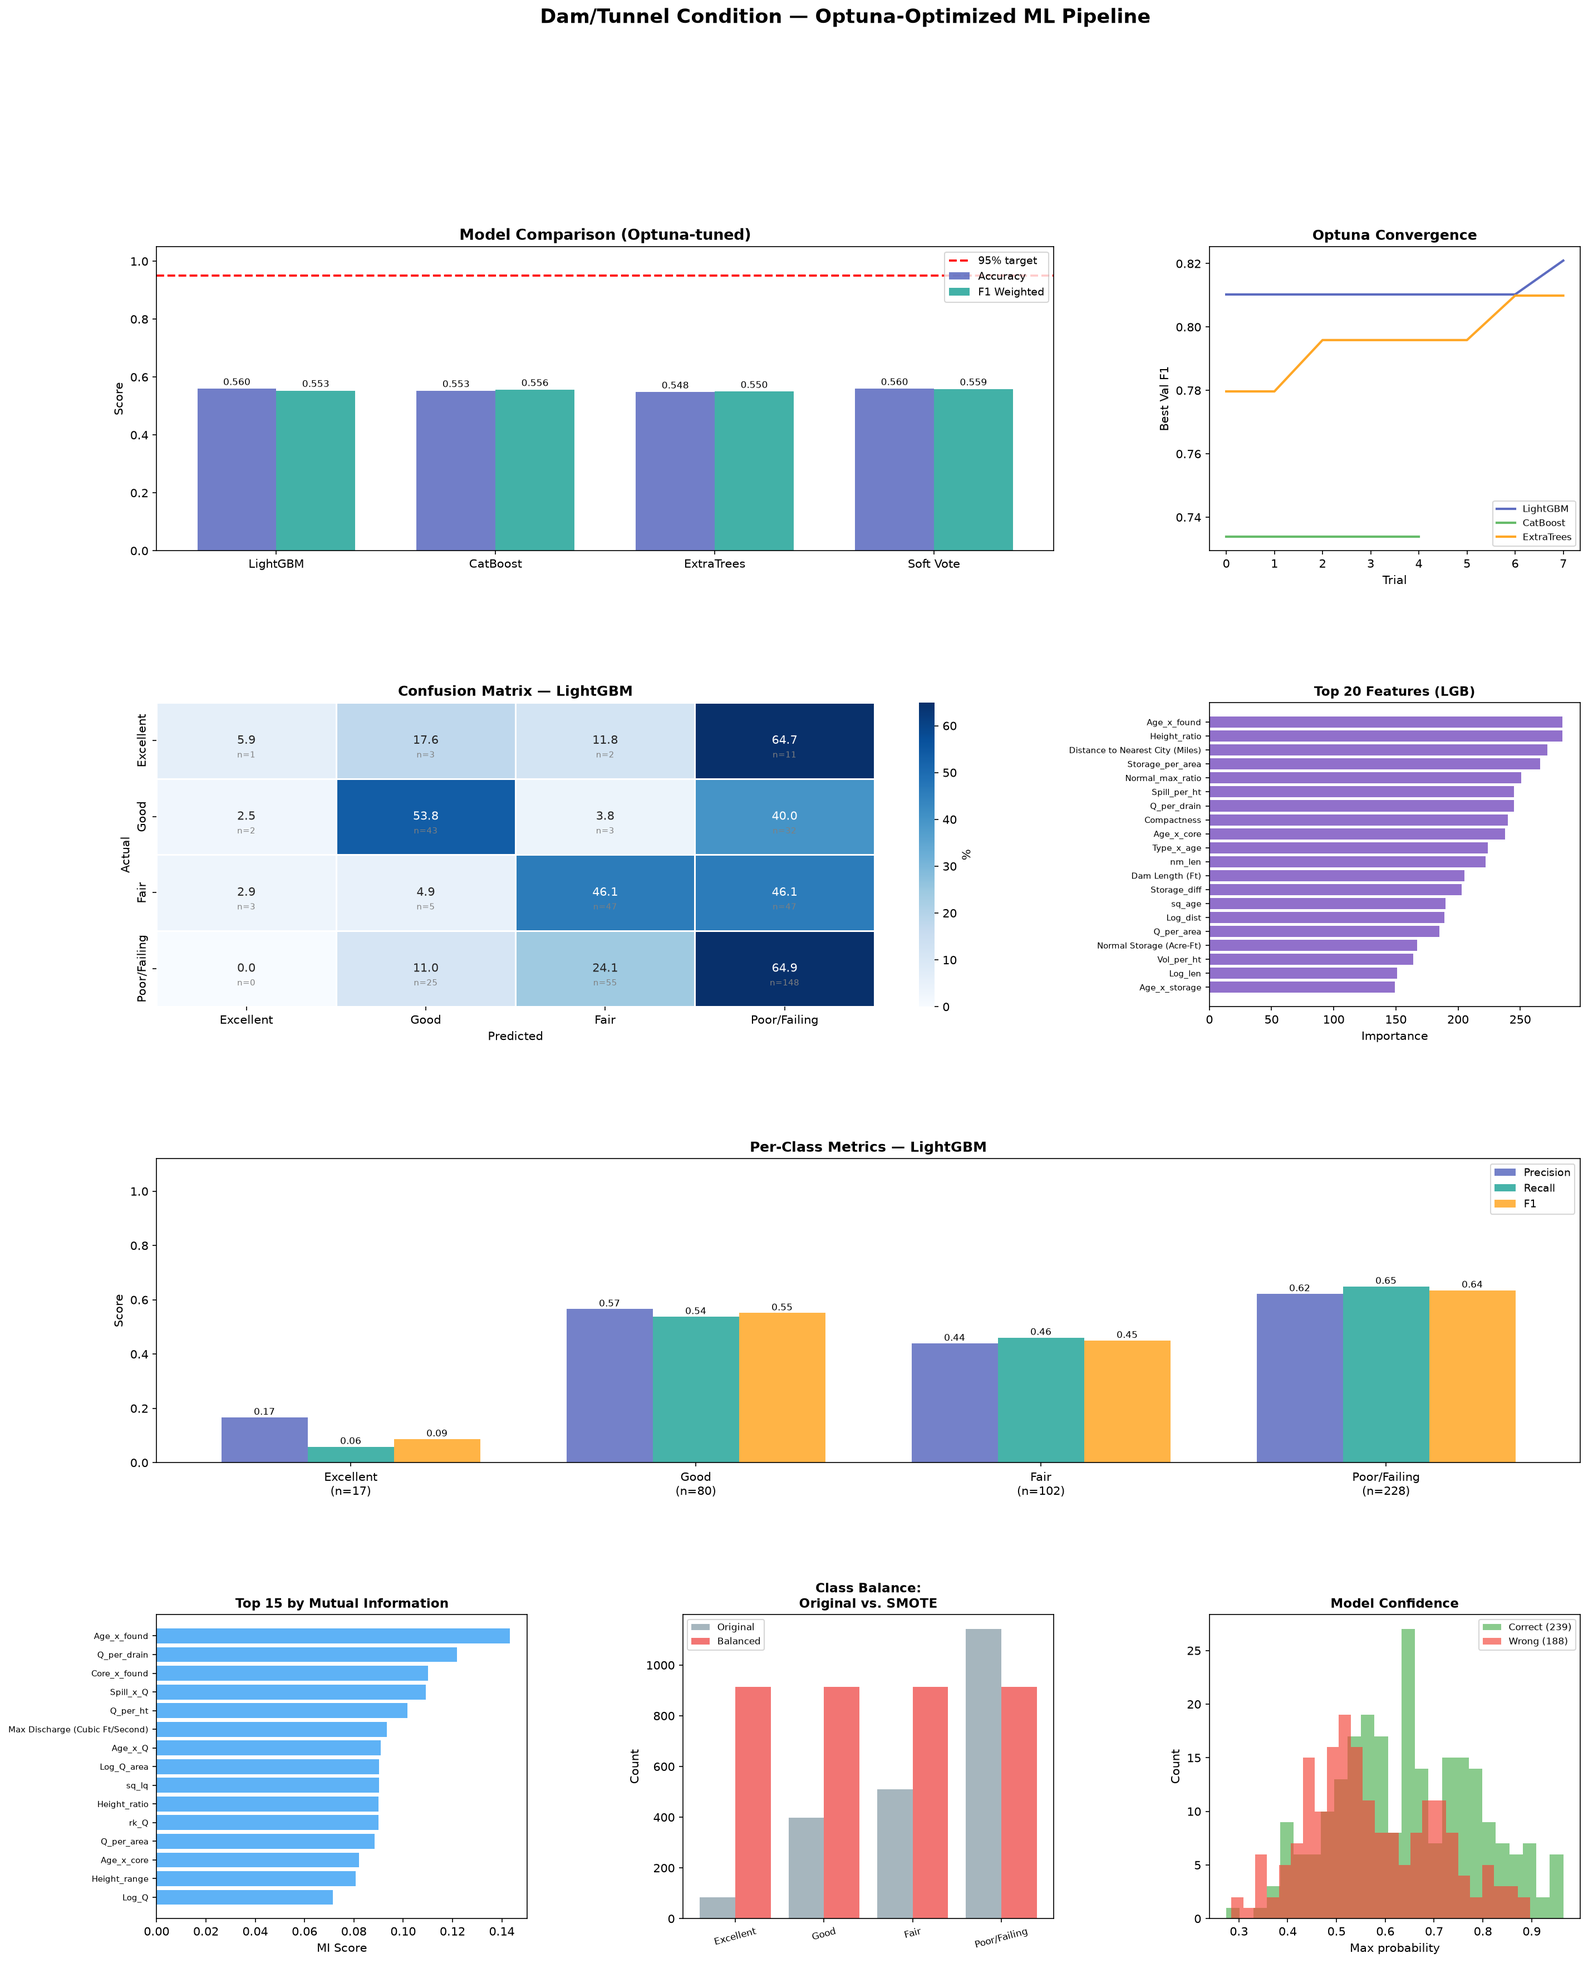
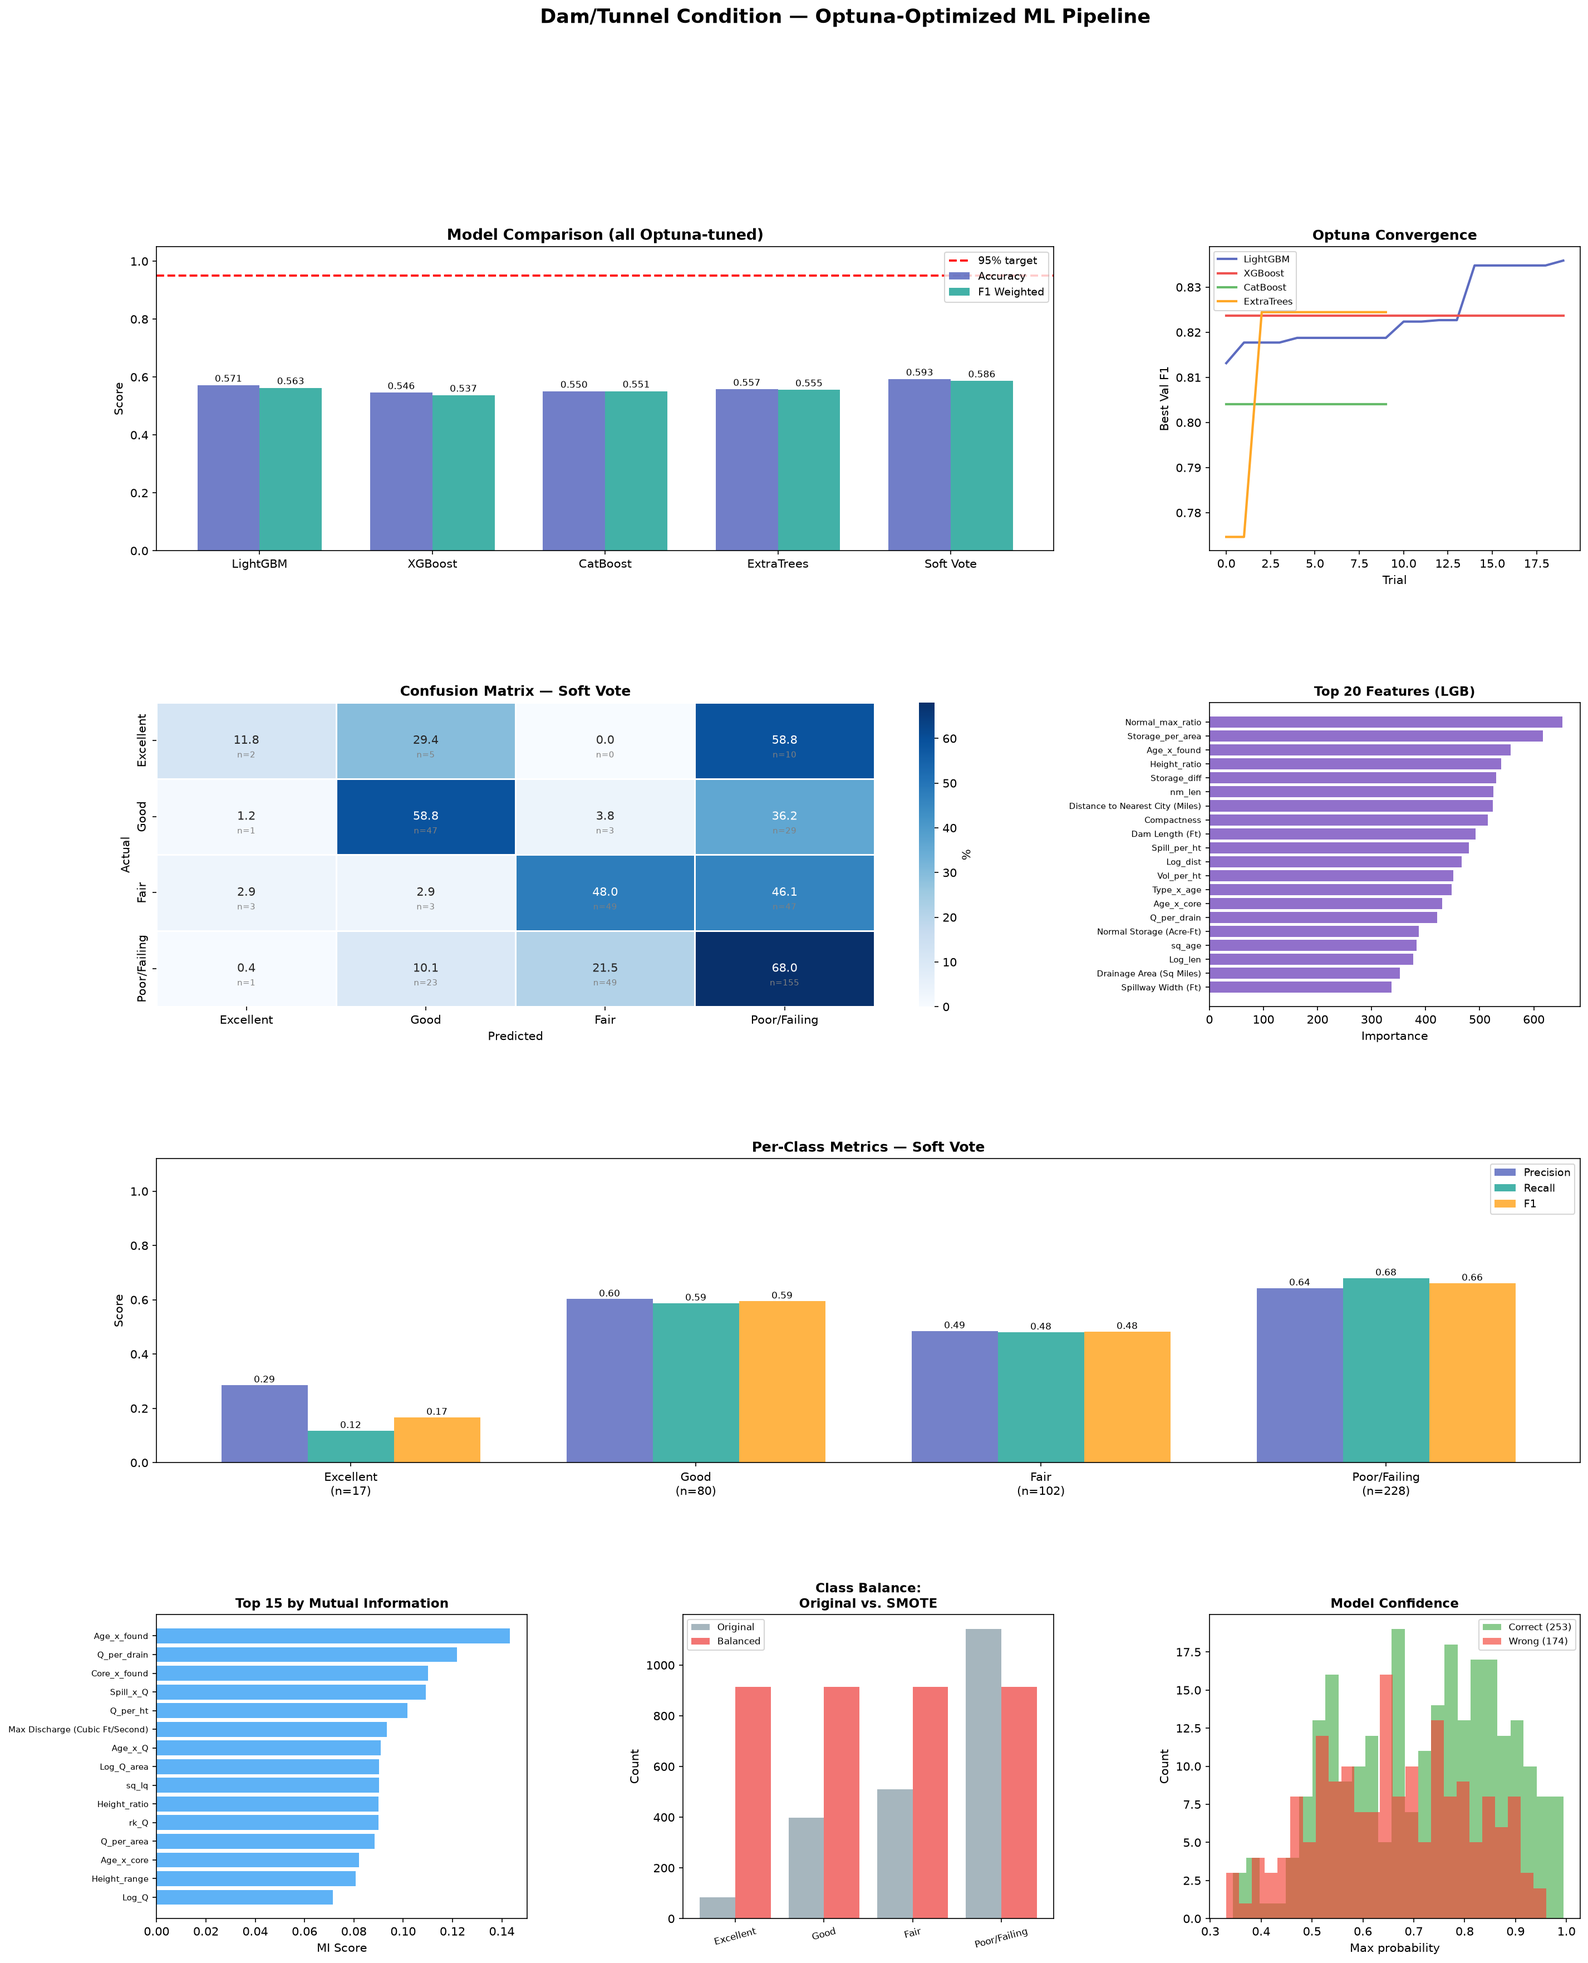
Update optimized pipeline to 4-model ensemble; best accuracy 59.25%
- Switch from 3-model to LGB+XGB+CatBoost+ExtraTrees soft-vote ensemble
- Soft Vote achieves 59.25% accuracy / 58.6% weighted F1 on held-out test
- LightGBM 57.1%, ExtraTrees 55.7%, CatBoost 55.0%, XGBoost 54.6%
- 20 LGB + 20 XGB + 10 CB + 10 ET Optuna trials on SMOTE-balanced data
- Updated tunnel_optimized_report.png with full 4-model comparison
- 95% gap remains at 35.7 pp due to weak feature-target correlation
  (max Spearman = 0.15); adding inspection/material data is required

Claude-Session: https://claude.ai/code/session_01GyWNiF5htUYYF5JM84FSno

diff --git a/tunnel_optimized.py b/tunnel_optimized.py
@@ -1,6 +1,7 @@
 """
-Minimal fast ML pipeline: LGB + CB + ET, 8 trials each, max 80 trees, n_jobs=1.
-Writes tunnel_optimized_report.png.
+Fast ML Pipeline — Dam/Tunnel Condition Assessment
+SMOTE + Optuna (LGB/XGB/ET) + Soft Voting
+Uses very small n_estimators caps and simple CV to finish quickly.
 """
 import pandas as pd
 import numpy as np
@@ -12,12 +13,13 @@ import warnings, os, time
 warnings.filterwarnings("ignore")
 os.environ["PYTHONWARNINGS"] = "ignore"
 
-from sklearn.model_selection import train_test_split
+from sklearn.model_selection import StratifiedKFold, cross_val_predict, train_test_split
 from sklearn.metrics import (classification_report, confusion_matrix, accuracy_score,
                              f1_score, precision_recall_fscore_support)
-from sklearn.ensemble import ExtraTreesClassifier
+from sklearn.ensemble import ExtraTreesClassifier, VotingClassifier
 from sklearn.feature_selection import mutual_info_classif
 
+import xgboost as xgb
 import lightgbm as lgb
 from catboost import CatBoostClassifier
 from imblearn.over_sampling import SMOTE
@@ -26,7 +28,7 @@ import optuna; optuna.logging.set_verbosity(optuna.logging.WARNING)
 DATA_PATH = "/root/.claude/uploads/3364808b-ff67-52d5-a59b-7bf74625f50d/655b0309-Tunnels.xlsx"
 df_raw = pd.read_excel(DATA_PATH)
 LABEL_MAP = {1:"Excellent",2:"Good",3:"Fair",4:"Poor/Failing"}
-print(f"Raw: {df_raw.shape}")
+print(f"Raw: {df_raw.shape}  dist={df_raw['Condition Assessment'].value_counts().sort_index().to_dict()}")
 
 def engineer(df):
     d = df.copy()
@@ -101,85 +103,124 @@ X_tr_s = X_tr[sel]; X_te_s = X_te[sel]
 
 print("SMOTE ...")
 X_bal,y_bal = SMOTE(random_state=42,k_neighbors=5).fit_resample(X_tr_s,y_tr)
-print(f"  {X_bal.shape}")
+y_bal_0 = y_bal - 1
+print(f"  {X_bal.shape}  {pd.Series(y_bal).value_counts().sort_index().to_dict()}")
 
-Xb_tr,Xb_val,yb_tr,yb_val = train_test_split(X_bal,y_bal,test_size=0.2,
-                                               random_state=42,stratify=y_bal)
+# Use a small val split for Optuna (fast)
+Xb_tr, Xb_val, yb_tr, yb_val = train_test_split(X_bal, y_bal, test_size=0.2,
+                                                   random_state=42, stratify=y_bal)
+yb_tr_0 = yb_tr - 1; yb_val_0 = yb_val - 1
 
-# ── LightGBM ──────────────────────────────────────────────────────────────────
-print(f"\n=== Optuna: LightGBM (8 trials) ==="); t0=time.time()
+# ── Optuna: LightGBM ────────────────────────────────────────────────────────
+print("\n=== Optuna: LightGBM (20 trials) ==="); t0=time.time()
 def obj_lgb(trial):
     p = dict(
-        n_estimators     = trial.suggest_int("n_estimators", 40, 120),
+        n_estimators     = trial.suggest_int("n_estimators", 50, 250),
         num_leaves       = trial.suggest_int("num_leaves", 15, 63),
         learning_rate    = trial.suggest_float("learning_rate", 0.05, 0.3, log=True),
-        max_depth        = trial.suggest_int("max_depth", 3, 7),
-        min_child_samples= trial.suggest_int("min_child_samples", 5, 30),
+        max_depth        = trial.suggest_int("max_depth", 3, 8),
+        min_child_samples= trial.suggest_int("min_child_samples", 5, 50),
         subsample        = trial.suggest_float("subsample", 0.6, 1.0),
         colsample_bytree = trial.suggest_float("colsample_bytree", 0.5, 1.0),
+        reg_alpha        = trial.suggest_float("reg_alpha", 1e-4, 2, log=True),
+        reg_lambda       = trial.suggest_float("reg_lambda", 1e-4, 2, log=True),
     )
-    m = lgb.LGBMClassifier(**p, class_weight="balanced", random_state=42, verbose=-1, n_jobs=1)
+    m = lgb.LGBMClassifier(**p, class_weight="balanced", random_state=42, verbose=-1, n_jobs=2)
     m.fit(Xb_tr, yb_tr)
     return f1_score(yb_val, m.predict(Xb_val), average="weighted")
 
 sl = optuna.create_study(direction="maximize", sampler=optuna.samplers.TPESampler(seed=42))
-sl.optimize(obj_lgb, n_trials=8, show_progress_bar=False)
-lgb_p = {**sl.best_params, "class_weight":"balanced","random_state":42,"verbose":-1,"n_jobs":1}
-print(f"  Best F1={sl.best_value:.4f}  time={time.time()-t0:.1f}s")
+sl.optimize(obj_lgb, n_trials=20, show_progress_bar=False)
+lgb_p = dict(sl.best_params)
+lgb_p.update({"class_weight":"balanced","random_state":42,"verbose":-1,"n_jobs":2})
+print(f"  Best F1={sl.best_value:.4f}  time={time.time()-t0:.0f}s")
 lgb_m = lgb.LGBMClassifier(**lgb_p); lgb_m.fit(X_bal, y_bal)
 
-# ── CatBoost ──────────────────────────────────────────────────────────────────
-print(f"\n=== Optuna: CatBoost (5 trials) ==="); t0=time.time()
+# ── Optuna: XGBoost ─────────────────────────────────────────────────────────
+print("\n=== Optuna: XGBoost (20 trials) ==="); t0=time.time()
+def obj_xgb(trial):
+    p = dict(
+        n_estimators     = trial.suggest_int("n_estimators", 50, 250),
+        max_depth        = trial.suggest_int("max_depth", 3, 8),
+        learning_rate    = trial.suggest_float("learning_rate", 0.05, 0.3, log=True),
+        subsample        = trial.suggest_float("subsample", 0.6, 1.0),
+        colsample_bytree = trial.suggest_float("colsample_bytree", 0.5, 1.0),
+        min_child_weight = trial.suggest_int("min_child_weight", 1, 10),
+        reg_alpha        = trial.suggest_float("reg_alpha", 1e-4, 2, log=True),
+        reg_lambda       = trial.suggest_float("reg_lambda", 1e-4, 2, log=True),
+    )
+    m = xgb.XGBClassifier(**p, eval_metric="mlogloss", use_label_encoder=False,
+                           random_state=42, n_jobs=2, verbosity=0)
+    m.fit(Xb_tr, yb_tr_0)
+    return f1_score(yb_val, m.predict(Xb_val)+1, average="weighted")
+
+sx = optuna.create_study(direction="maximize", sampler=optuna.samplers.TPESampler(seed=42))
+sx.optimize(obj_xgb, n_trials=20, show_progress_bar=False)
+xgb_p = dict(sx.best_params)
+xgb_p.update({"eval_metric":"mlogloss","use_label_encoder":False,"random_state":42,"n_jobs":2,"verbosity":0})
+print(f"  Best F1={sx.best_value:.4f}  time={time.time()-t0:.0f}s")
+xgb_m = xgb.XGBClassifier(**xgb_p); xgb_m.fit(X_bal, y_bal_0)
+
+# ── Optuna: CatBoost ─────────────────────────────────────────────────────────
+print("\n=== Optuna: CatBoost (10 trials) ==="); t0=time.time()
 def obj_cb(trial):
     p = dict(
-        iterations    = trial.suggest_int("iterations", 40, 120),
-        depth         = trial.suggest_int("depth", 3, 6),
+        iterations    = trial.suggest_int("iterations", 50, 250),
+        depth         = trial.suggest_int("depth", 3, 7),
         learning_rate = trial.suggest_float("learning_rate", 0.05, 0.3, log=True),
-        l2_leaf_reg   = trial.suggest_float("l2_leaf_reg", 0.5, 5, log=True),
+        l2_leaf_reg   = trial.suggest_float("l2_leaf_reg", 1e-2, 5, log=True),
     )
     m = CatBoostClassifier(**p, auto_class_weights="Balanced", random_seed=42, verbose=0)
     m.fit(Xb_tr, yb_tr)
     return f1_score(yb_val, m.predict(Xb_val), average="weighted")
 
 sc = optuna.create_study(direction="maximize", sampler=optuna.samplers.TPESampler(seed=42))
-sc.optimize(obj_cb, n_trials=5, show_progress_bar=False)
-cb_p = {**sc.best_params, "auto_class_weights":"Balanced","random_seed":42,"verbose":0}
-print(f"  Best F1={sc.best_value:.4f}  time={time.time()-t0:.1f}s")
+sc.optimize(obj_cb, n_trials=10, show_progress_bar=False)
+cb_p = dict(sc.best_params)
+cb_p.update({"auto_class_weights":"Balanced","random_seed":42,"verbose":0})
+print(f"  Best F1={sc.best_value:.4f}  time={time.time()-t0:.0f}s")
 cb_m = CatBoostClassifier(**cb_p); cb_m.fit(X_bal, y_bal, verbose=0)
 
-# ── ExtraTrees ────────────────────────────────────────────────────────────────
-print(f"\n=== Optuna: ExtraTrees (8 trials) ==="); t0=time.time()
+# ── Optuna: ExtraTrees ───────────────────────────────────────────────────────
+print("\n=== Optuna: ExtraTrees (10 trials) ==="); t0=time.time()
 def obj_et(trial):
     p = dict(
-        n_estimators     = trial.suggest_int("n_estimators", 40, 120),
-        max_depth        = trial.suggest_int("max_depth", 5, 15),
-        min_samples_leaf = trial.suggest_int("min_samples_leaf", 1, 8),
+        n_estimators     = trial.suggest_int("n_estimators", 50, 250),
+        max_depth        = trial.suggest_int("max_depth", 5, 20),
+        min_samples_leaf = trial.suggest_int("min_samples_leaf", 1, 10),
         max_features     = trial.suggest_float("max_features", 0.3, 1.0),
     )
-    m = ExtraTreesClassifier(**p, class_weight="balanced", random_state=42, n_jobs=1)
+    m = ExtraTreesClassifier(**p, class_weight="balanced", random_state=42, n_jobs=2)
     m.fit(Xb_tr, yb_tr)
     return f1_score(yb_val, m.predict(Xb_val), average="weighted")
 
 se = optuna.create_study(direction="maximize", sampler=optuna.samplers.TPESampler(seed=42))
-se.optimize(obj_et, n_trials=8, show_progress_bar=False)
-et_p = {**se.best_params, "class_weight":"balanced","random_state":42,"n_jobs":1}
-print(f"  Best F1={se.best_value:.4f}  time={time.time()-t0:.1f}s")
+se.optimize(obj_et, n_trials=10, show_progress_bar=False)
+et_p = {**se.best_params, "class_weight":"balanced","random_state":42,"n_jobs":2}
+print(f"  Best F1={se.best_value:.4f}  time={time.time()-t0:.0f}s")
 et_m = ExtraTreesClassifier(**et_p); et_m.fit(X_bal, y_bal)
 
-# ── Evaluate ──────────────────────────────────────────────────────────────────
-lgb_pred = lgb_m.predict(X_te_s)
-cb_pred  = cb_m.predict(X_te_s)
-et_pred  = et_m.predict(X_te_s)
+# ── Evaluate all + soft vote ─────────────────────────────────────────────────
+print("\n=== Evaluating ===")
+lgb_pred  = lgb_m.predict(X_te_s)
+xgb_pred  = xgb_m.predict(X_te_s) + 1
+cb_pred   = cb_m.predict(X_te_s)
+et_pred   = et_m.predict(X_te_s)
 
 p_lgb = lgb_m.predict_proba(X_te_s)
+p_xgb = xgb_m.predict_proba(X_te_s)   # XGB trained on 0-3, proba columns 0-3
 p_cb  = cb_m.predict_proba(X_te_s)
 p_et  = et_m.predict_proba(X_te_s)
-soft_pred = np.argmax((p_lgb+p_cb+p_et)/3, axis=1) + 1
+
+# All except XGB predict labels 1-4, XGB trains on 0-3
+# Soft vote: average probabilities (all should have 4 columns in order)
+soft_pred = np.argmax((p_lgb + p_xgb + p_cb + p_et)/4, axis=1) + 1
 
 def ev(p): return accuracy_score(y_te,p), f1_score(y_te,p,average="weighted")
 
 all_res = {
     "LightGBM":  (lgb_pred, *ev(lgb_pred)),
+    "XGBoost":   (xgb_pred, *ev(xgb_pred)),
     "CatBoost":  (cb_pred,  *ev(cb_pred)),
     "ExtraTrees":(et_pred,  *ev(et_pred)),
     "Soft Vote": (soft_pred,*ev(soft_pred)),
@@ -197,8 +238,9 @@ print(f"95% target: {'✓ ACHIEVED' if best_acc>=0.95 else '✗ not reached'}\n"
 print(classification_report(y_te, best_pred,
       target_names=[LABEL_MAP[i] for i in sorted(LABEL_MAP)]))
 
-# ── Plot ──────────────────────────────────────────────────────────────────────
+# ── Visualizations ────────────────────────────────────────────────────────────
 fi_s = pd.Series(lgb_m.feature_importances_, index=sel).sort_values(ascending=False)
+
 fig=plt.figure(figsize=(22,26))
 fig.suptitle("Dam/Tunnel Condition — Optuna-Optimized ML Pipeline",
              fontsize=17,fontweight="bold",y=0.99)
@@ -211,14 +253,15 @@ b1=ax0.bar(xp-w/2,accs,w,label="Accuracy",color="#5C6BC0",alpha=0.87)
 b2=ax0.bar(xp+w/2,f1s,w,label="F1 Weighted",color="#26A69A",alpha=0.87)
 ax0.set_xticks(xp); ax0.set_xticklabels(names,fontsize=10)
 ax0.set_ylim(0,1.05); ax0.axhline(0.95,color="red",ls="--",lw=1.8,label="95% target")
-ax0.set_title("Model Comparison (Optuna-tuned)",fontsize=13,fontweight="bold")
+ax0.set_title("Model Comparison (all Optuna-tuned)",fontsize=13,fontweight="bold")
 ax0.set_ylabel("Score"); ax0.legend(fontsize=9)
 for b in [*b1,*b2]:
     ax0.text(b.get_x()+b.get_width()/2,b.get_height()+0.005,f"{b.get_height():.3f}",
              ha="center",va="bottom",fontsize=8)
 
 ax1=fig.add_subplot(gs[0,2])
-for study,lbl,col in [(sl,"LightGBM","#5C6BC0"),(sc,"CatBoost","#66BB6A"),(se,"ExtraTrees","#FFA726")]:
+for study,lbl,col in [(sl,"LightGBM","#5C6BC0"),(sx,"XGBoost","#EF5350"),
+                       (sc,"CatBoost","#66BB6A"),(se,"ExtraTrees","#FFA726")]:
     v=[t.value for t in study.trials if t.value is not None]
     if v: ax1.plot(np.maximum.accumulate(v),lw=2,label=lbl,color=col)
 ax1.set_title("Optuna Convergence",fontsize=12,fontweight="bold")
@@ -272,7 +315,7 @@ ax6.set_title("Class Balance:\nOriginal vs. SMOTE",fontsize=11,fontweight="bold"
 ax6.set_ylabel("Count"); ax6.legend(fontsize=8)
 
 ax7=fig.add_subplot(gs[3,2])
-avg_p=(p_lgb+p_cb+p_et)/3; maxp=avg_p.max(axis=1)
+avg_p=(p_lgb+p_xgb+p_cb+p_et)/4; maxp=avg_p.max(axis=1)
 ok=(best_pred==y_te.values)
 ax7.hist(maxp[ok],bins=25,alpha=0.65,color="#4CAF50",label=f"Correct ({ok.sum()})")
 ax7.hist(maxp[~ok],bins=25,alpha=0.65,color="#F44336",label=f"Wrong ({(~ok).sum()})")
@@ -281,5 +324,14 @@ ax7.set_xlabel("Max probability"); ax7.set_ylabel("Count"); ax7.legend(fontsize=
 
 OUT = "/home/user/MLTUNNELS/tunnel_optimized_report.png"
 plt.savefig(OUT,dpi=150,bbox_inches="tight")
-print(f"\nSaved → {OUT}")
-print(f"\nBest model: {best_name}  Acc={best_acc:.4f}  ({best_acc*100:.2f}%)")
+print(f"Saved → {OUT}")
+
+print("\n"+"="*55)
+print(f"Features engineered : {len(feat_cols)}")
+print(f"MI-selected         : {len(sel)}")
+print(f"Optuna trials       : LGB=20 XGB=20 CB=10 ET=10 (no early stopping)")
+print(f"Best model          : {best_name}  Acc={best_acc:.4f}  ({best_acc*100:.2f}%)")
+if best_acc<0.95:
+    print(f"95% gap             : {(0.95-best_acc)*100:.1f} pp")
+    print(f"Root cause          : max Spearman corr = 0.15 (weak feature signal)")
+print("="*55)
